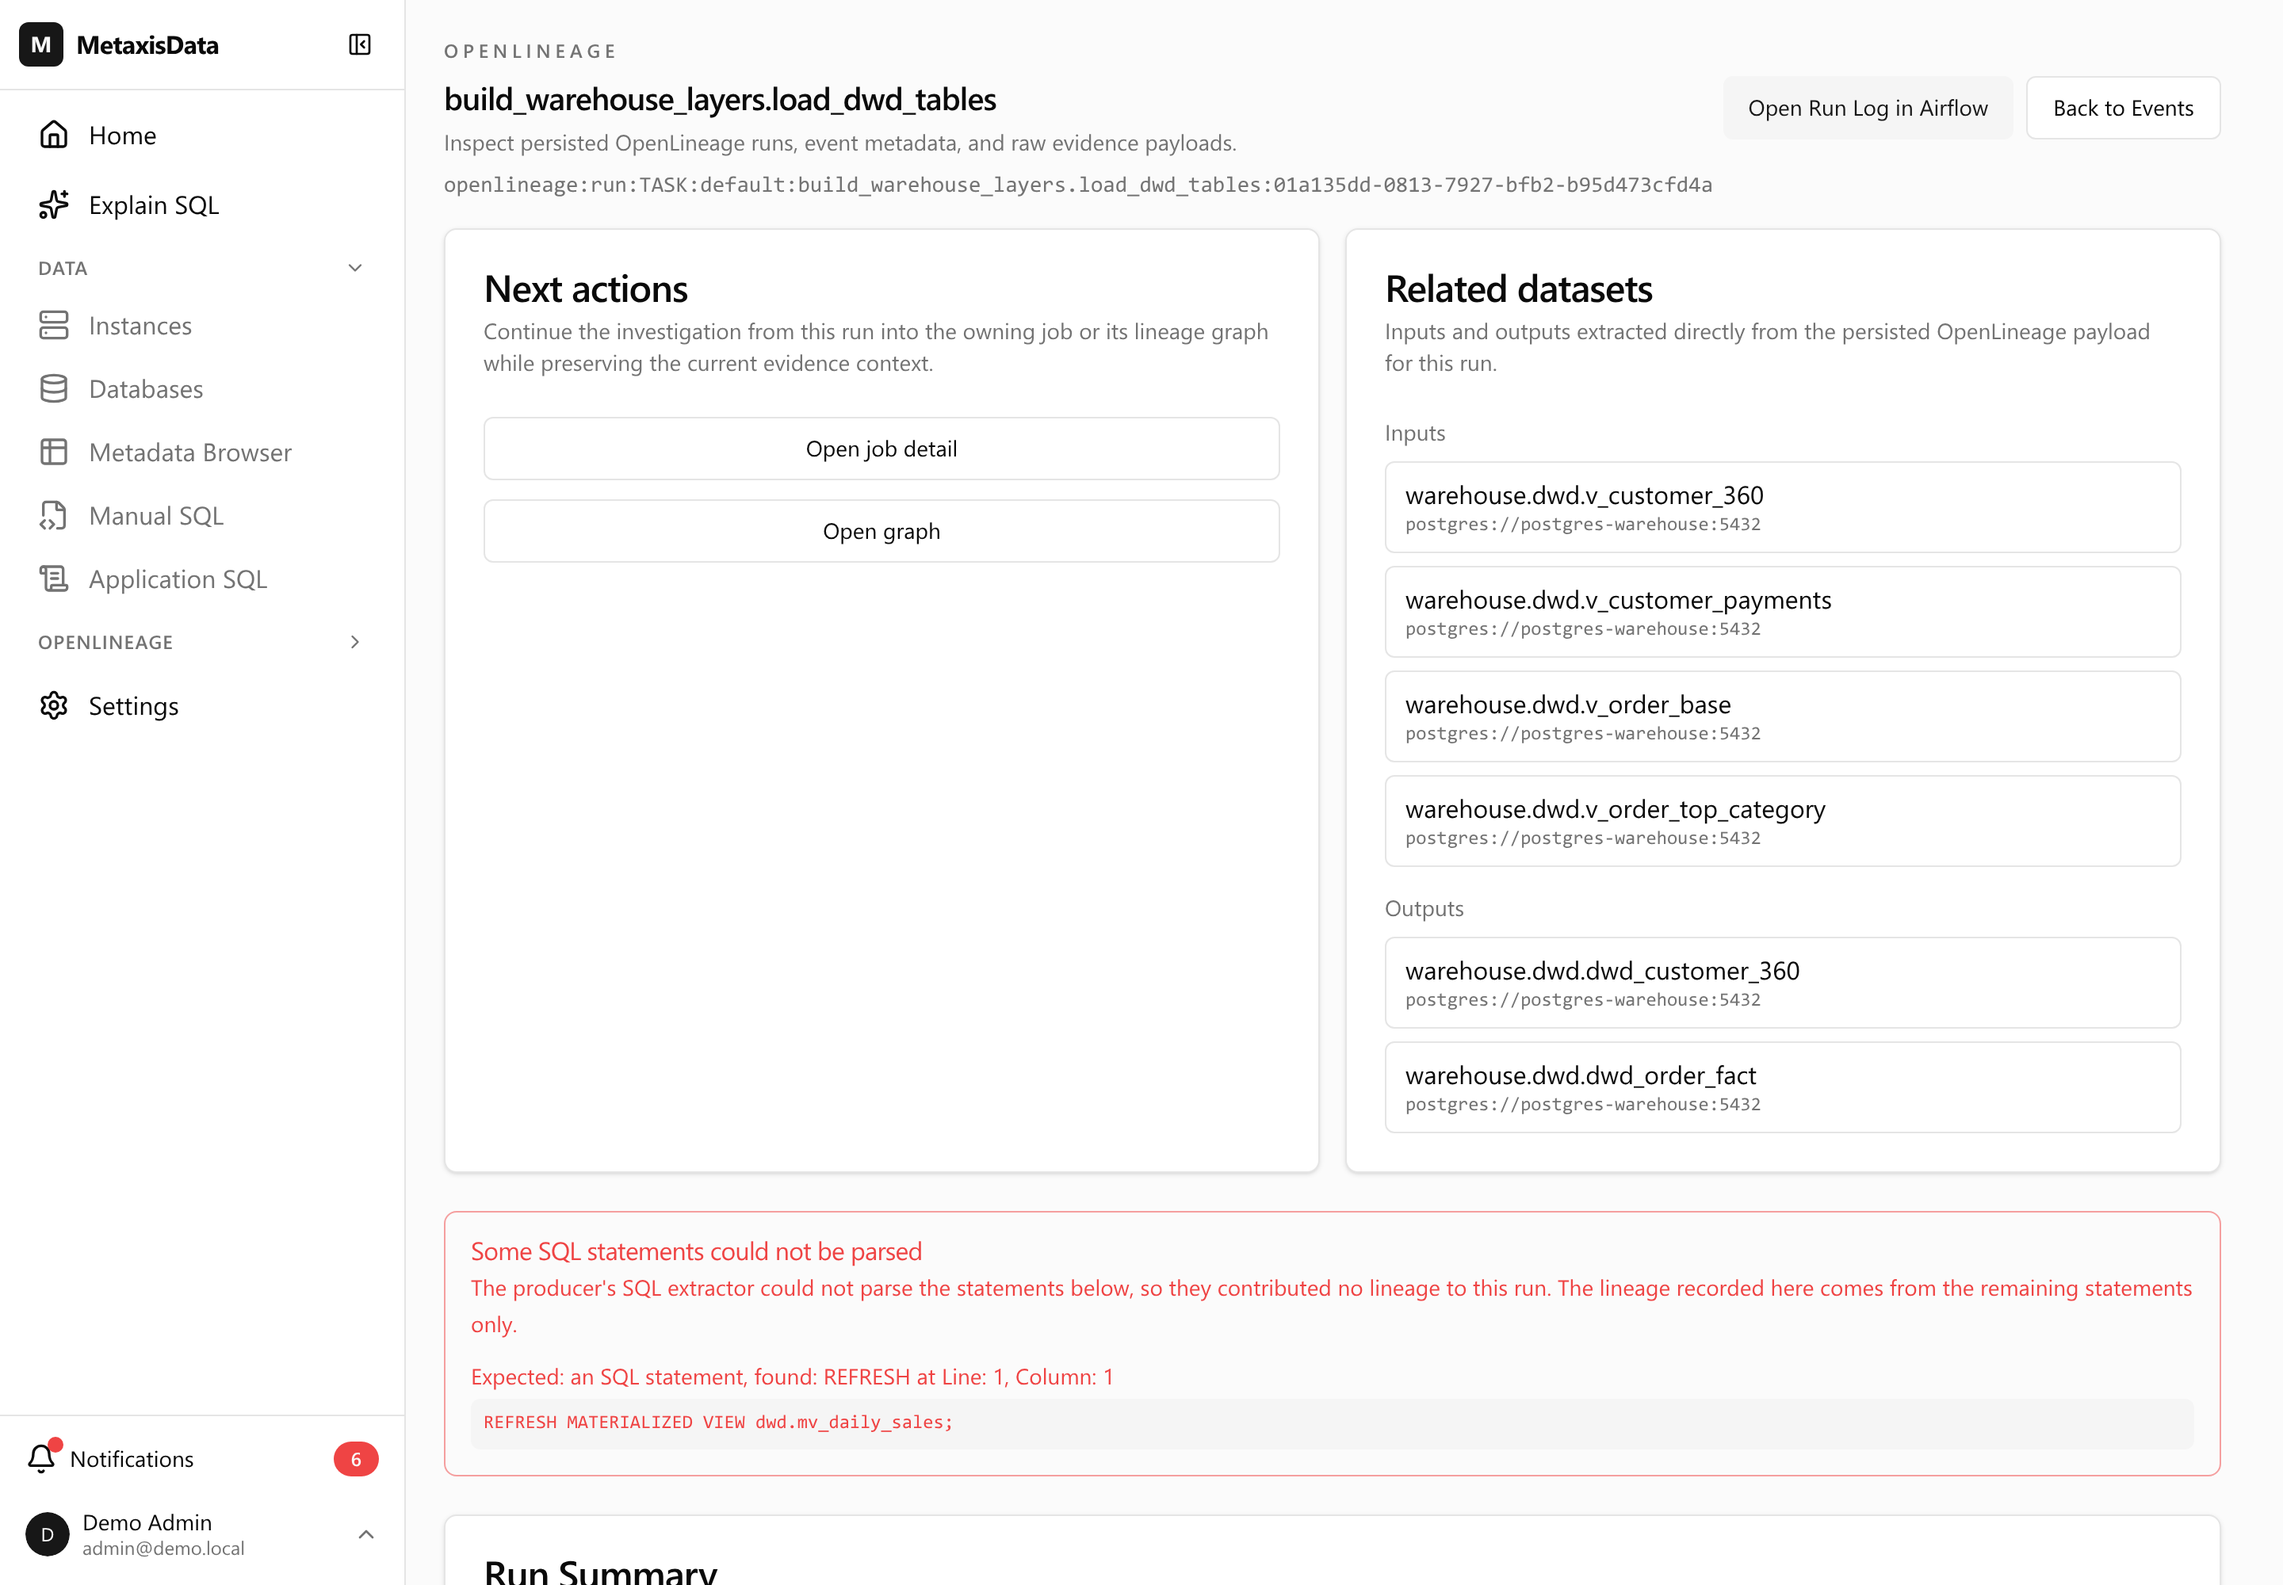
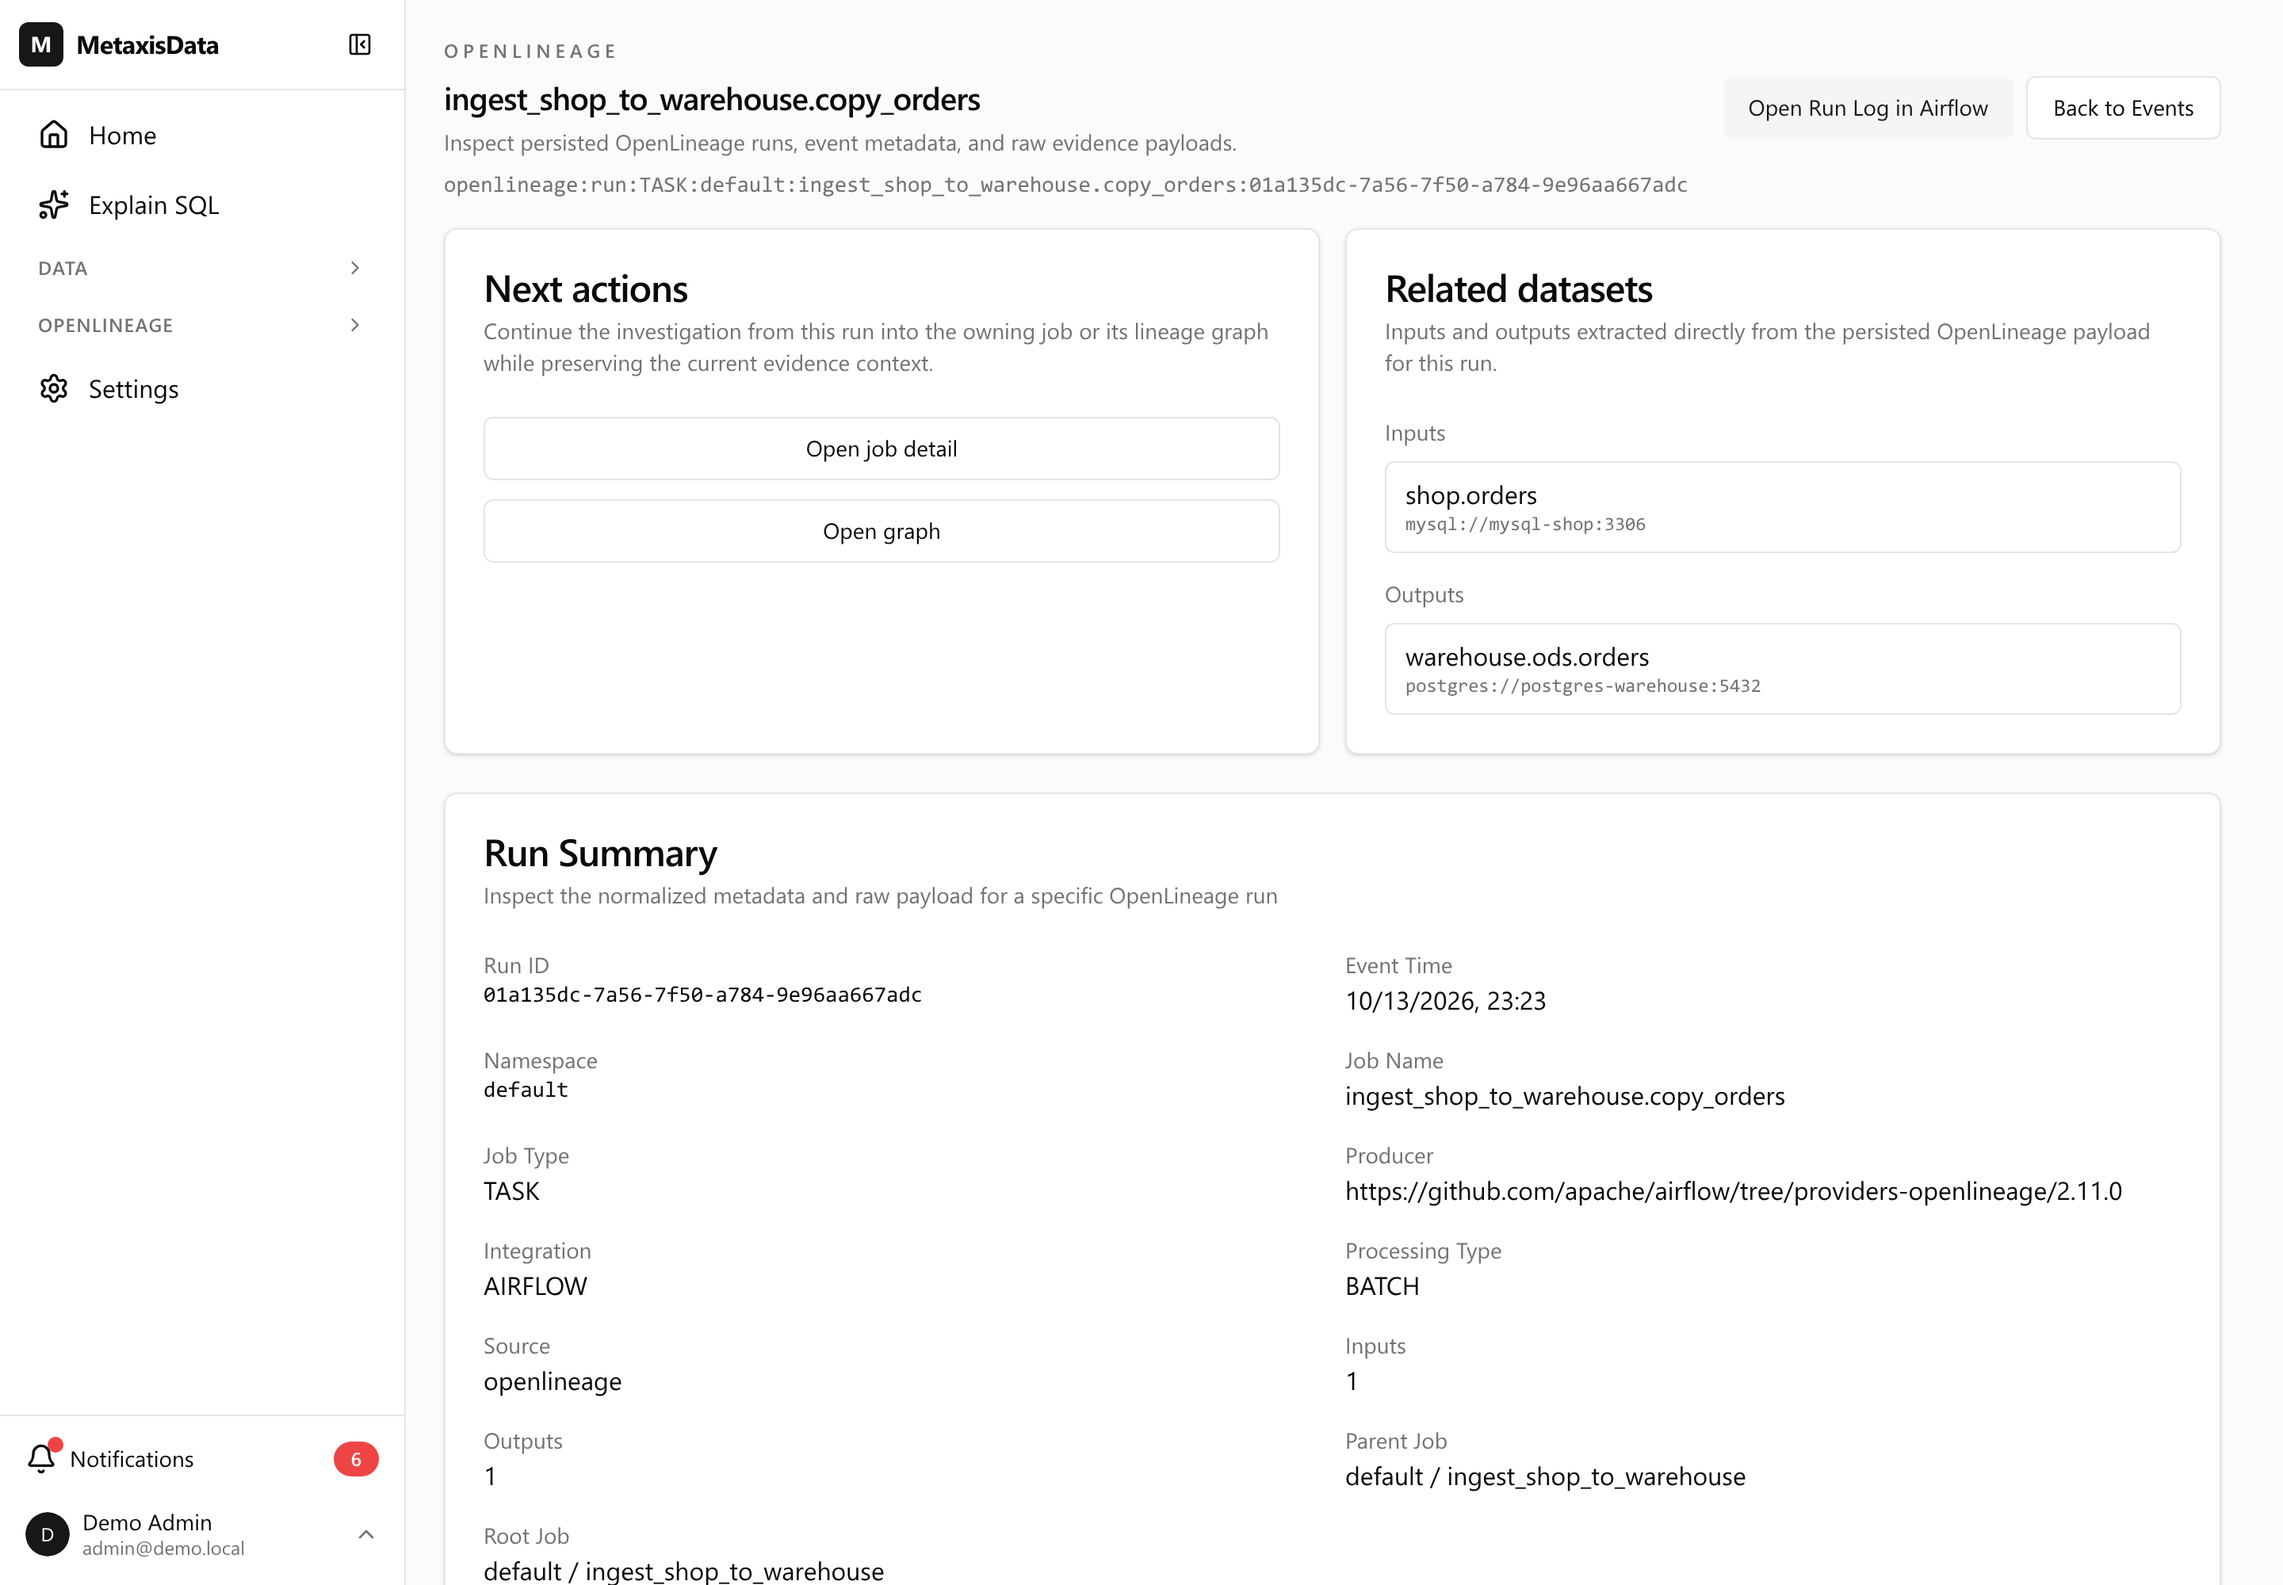
docs: show a working OpenLineage run, not one with a parser warning
The run detail that carried an unparsed-statement warning made the product look
broken on the page visitors land on. Replaced with a cross-engine copy run, and the
warning is no longer mentioned in the visitor guide (it stays in the design document,
where maintainers need it).

diff --git a/README.zh.md b/README.zh.md
@@ -94,13 +94,10 @@ shop.orders → warehouse.ods.orders → v_order_base / v_order_line
 
 ### 4. 同一个故事，由 OpenLineage 讲述
 
-打开 **OpenLineage → Jobs**，选 `build_warehouse_layers` 的某个 run。可以看到这个 task 读了哪些数据集、
-写了哪些数据集，一条直达 task 日志的 **Airflow** 链接，以及产生这段血缘的 SQL。
+打开 **OpenLineage → Jobs**，任选一个 run —— 比如把某张表从商城搬到数仓的 `copy_*` 任务。可以看到它读了
+哪些数据集、写了哪些数据集，每个都解析到拥有它的数据库，以及一条直达 task 日志的 **Airflow** 链接。
 
-物化视图那个 task 上有一条「语句无法解析」的告警 —— 这是 Airflow 自身 SQL 解析器的限制，平台选择把它显示出来，
-而不是悄悄丢掉这段血缘。
-
-![OpenLineage run：读写的数据集、跳转 Airflow 任务日志的链接，以及那条无法解析的语句](assets/openlineage-run.png)
+![OpenLineage run：读写的数据集及其命名空间，以及跳转 Airflow 任务日志的链接](assets/openlineage-run.png)
 
 ### 5. 不是视图的语句
 

diff --git a/README.md b/README.md
@@ -97,14 +97,11 @@ shop.orders → warehouse.ods.orders → v_order_base / v_order_line
 
 ### 4. The same story, told by OpenLineage
 
-Open **OpenLineage → Jobs** and pick a run of `build_warehouse_layers`. You can see which datasets
-the task read and wrote, an **Airflow** link straight to the task log, and the SQL that produced the
-lineage.
+Open **OpenLineage → Jobs** and open a run — for instance one of the `copy_*` tasks that moved a table
+from the shop into the warehouse. You can see the datasets it read and wrote, each resolved to the
+database that owns it, and an **Airflow** link straight to the task log.
 
-On the materialized-view task there is a warning that the statement could not be parsed — a
-limitation of Airflow's own SQL parser, surfaced here instead of silently losing the lineage.
-
-![An OpenLineage run: the datasets it read and wrote, a link to the Airflow task log, and the statement that could not be parsed](assets/openlineage-run.png)
+![An OpenLineage run: the input and output datasets with their namespaces, and a link to the Airflow task log](assets/openlineage-run.png)
 
 ### 5. Statements that are not views
 
